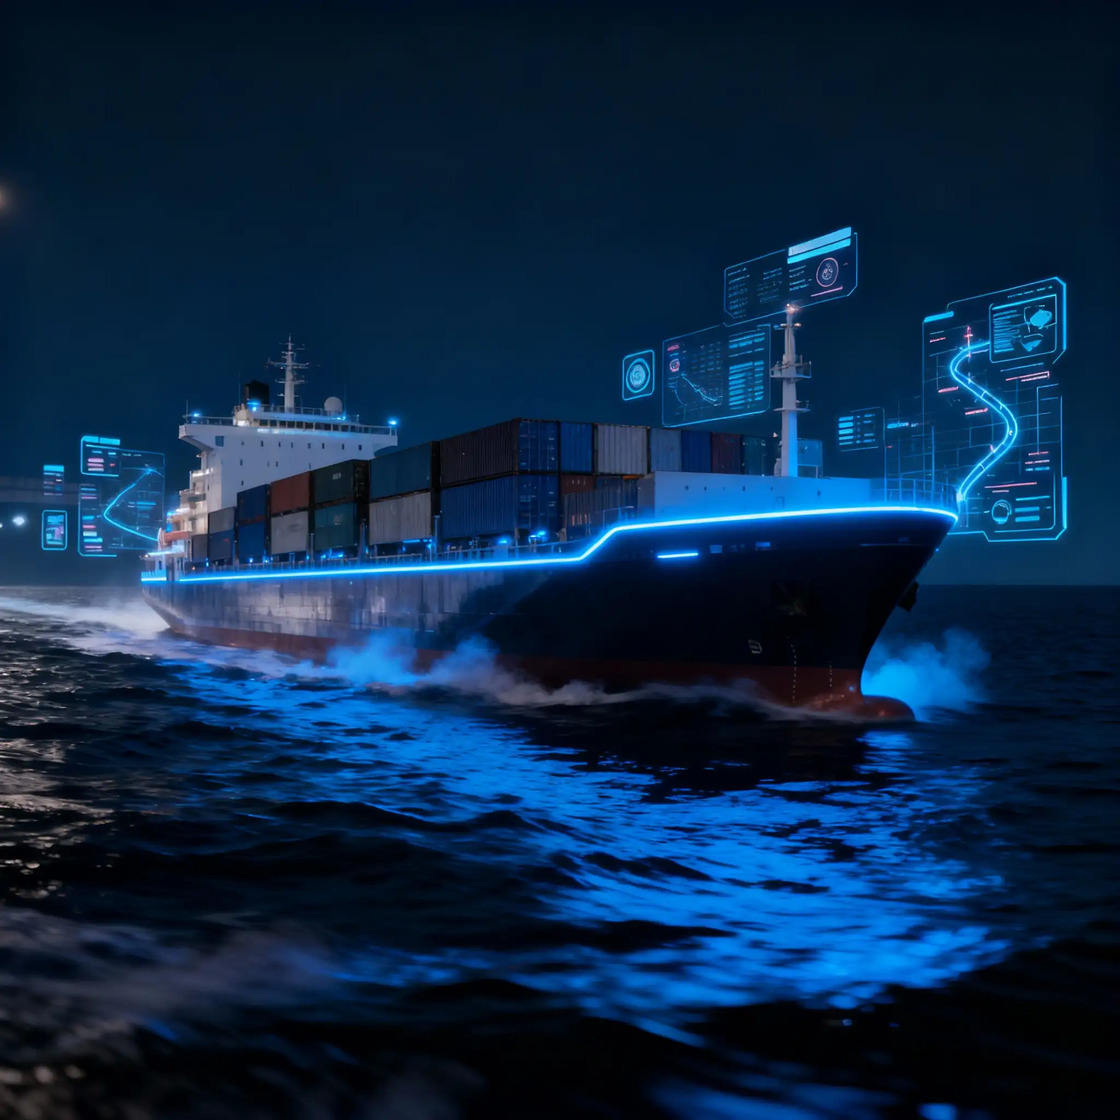
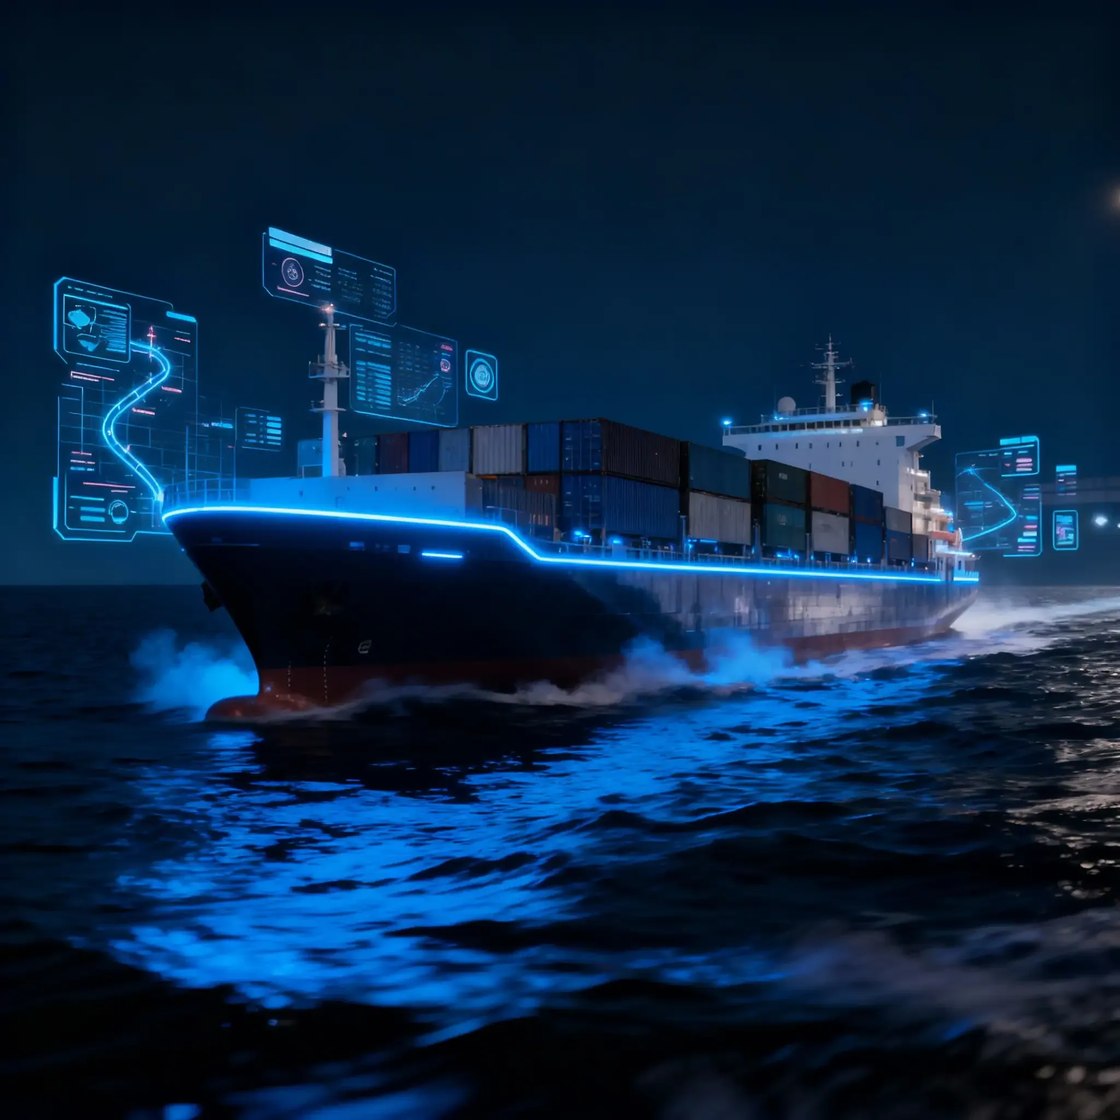
apply some appreance changes

diff --git a/frontend/src/components/TariffInquiry.js b/frontend/src/components/TariffInquiry.js
@@ -7,7 +7,7 @@ const TariffInquiry = () => {
 
   const [selectedOrigin, setSelectedOrigin] = useState("");
   const [selectedDestination, setSelectedDestination] = useState("");
-  const [weight, setWeight] = useState("");
+  const [weight, setWeight] = useState(2000);
   const [carrierType, setCarrierType] = useState("");
 
   const [result, setResult] = useState(null);
@@ -47,11 +47,9 @@ const TariffInquiry = () => {
     }
   }, [selectedOrigin]);
 
-  // تغییر مبدا: مقصد و نتیجه پاک شود تا ناسازگار نباشد
   const handleOriginChange = (e) => {
     setSelectedOrigin(e.target.value);
     setSelectedDestination("");
-    // setResult(null); // اگر نمیخواهی نتیجه قبلی حفظ شود، این خط را از حالت کامنت خارج کن
   };
 
   const handleSubmit = (e) => {
@@ -71,12 +69,10 @@ const TariffInquiry = () => {
       carrier_type: carrierType,
     };
 
-    // کلید یکتا برای جلوگیری از درخواست تکراری
     const key = `${currentQuery.origin}|${currentQuery.destination}|${currentQuery.weight} || ""}`;
 
-    // اگر دقیقاً همان ورودیهاست، کاری نکن
     if (lastQueryKey === key) {
-      return; // چون setLoading(true) هنوز نزدهایم، UI گیر نمیکند
+      return;
     }
 
     setLoading(true);
@@ -186,29 +182,39 @@ const TariffInquiry = () => {
             <div className="relative flex items-center">
               <input
                 type="number"
-                min="0"
+                min="2000"
                 step="100"
-                className="w-full px-4 py-2 border border-gray-300 rounded-xl focus:ring-2 focus:ring-[#3C9BD8] outline-none appearance-none [&::-webkit-inner-spin-button]:appearance-none 
-                 [&::-webkit-outer-spin-button]:appearance-none"
+                className="
+                    w-full px-4 py-2 border border-gray-300 rounded-xl
+                    focus:ring-2 focus:ring-[#3C9BD8] outline-none
+
+                    appearance-none
+                    [&::-webkit-inner-spin-button]:appearance-none
+                    [&::-webkit-outer-spin-button]:appearance-none
+
+                    [appearance:textfield]
+                    [-moz-appearance:textfield]
+                    "
                 placeholder="مثلاً 3000"
                 value={weight}
                 onChange={(e) => setWeight(e.target.value)}
                 required
               />
 
+
               {/* فلش بالا و پایین */}
               <div className="absolute left-3 top-0.5 flex flex-col h-full justify-center">
                 <button
                   type="button"
                   className="text-[#3C9BD8] hover:text-[#3185c0] leading-none"
-                  onClick={() => setWeight((prev) => (prev ? +prev + 100 : 100))}
+                  onClick={() => setWeight((prev) => (prev && +prev < 10000 ? +prev + 100 : 10000))}
                 >
                   ▲
                 </button>
                 <button
                   type="button"
                   className="text-[#3C9BD8] hover:text-[#3185c0] leading-none mt-0.5"
-                  onClick={() => setWeight((prev) => (prev && +prev >= 100 ? +prev - 100 : 0))}
+                  onClick={() => setWeight((prev) => (prev && +prev > 2000 ? +prev - 100 : 2000))}
                 >
                   ▼
                 </button>
@@ -230,7 +236,6 @@ const TariffInquiry = () => {
               <option value="">انتخاب نوع حامل</option>
               <option value="چادری">چادری</option>
               <option value="فلزی">فلزی</option>
-              <option value="تانکری">تانکری</option>
               <option value="یخچالی">یخچالی</option>
             </select>
 
@@ -258,8 +263,8 @@ const TariffInquiry = () => {
             type="submit"
             disabled={isSubmitDisabled}
             className={`w-full text-white font-semibold py-2 rounded-xl transition-all duration-200 ${isSubmitDisabled
-                ? "bg-gray-300 cursor-not-allowed"
-                : "bg-[#3C9BD8] hover:bg-[#3185c0]"
+              ? "bg-gray-300 cursor-not-allowed"
+              : "bg-[#3C9BD8] hover:bg-[#3185c0]"
               }`}
           >
             {loading ? "در حال محاسبه..." : "محاسبه کرایه"}

diff --git a/frontend/src/app/services/page.js b/frontend/src/app/services/page.js
@@ -18,12 +18,31 @@ export default function Home() {
       <TrainSection />
       <MarineSection />
       <h3 className="text-center text-2xl md:text-4xl font-bold mt-10">چرا تمکو؟</h3>
-      <p className="text-xl my-10 mx-10 md:mx-25 text-justify">در دنیایی که <strong>سرعت، دقت و اطلاعات</strong> نقش اصلی را در موفقیت لجستیک ایفا میکنند، انتخاب یک شریک قابلاعتماد میتواند آینده یک کسبوکار را تغییر دهد.</p>
-      <p className="text-xl my-10 mx-10 md:mx-25 text-justify">تمکو فقط یک شرکت حملونقل نیست؛ یک <strong>سامانه هوشمند، یکپارچه و دادهمحور</strong> است که تمامی مسیرهای <strong>زمینی، هوایی، ریلی و دریایی</strong> را در قالب یک شبکه منسجم به هم متصل میکند.</p>
-      <p className="text-xl my-10 mx-10 md:mx-25 text-justify">در تمکو باور داریم که <strong>اعتماد از شفافیت میآید</strong> و شفافیت با <strong>فناوری، گزارشدهی دقیق و تحلیل زنده دادهها</strong> ممکن میشود.
-        به همین دلیل هر مرحله از عملیات حملونقل از ثبت سفارش تا تحویل با: <strong>گزارش لحظهای، پشتیبانی انسانی اختصاصی، الگوریتمهای پیشبینی و تحلیل مسیر</strong>
-        طراحی شده تا مطمئن باشید محمولهتان در <strong>ایمنترین، سریعترین و بهینهترین مسیر</strong> در حال حرکت است.</p>
-      <p className="text-xl my-10 mx-10 md:mx-25 text-justify font-bold">تمکو، انتخاب کسبوکارهایی است که آینده را میبینند و تصمیم میگیرند امروز در مسیر آن حرکت کنند.</p>
+
+      <p className="text-xl my-10 mx-10 md:mx-25 text-justify font-bold">
+        در دنیایی که سرعت، دقت و اطلاعات نقش اصلی را در موفقیت لجستیک ایفا میکنند،
+        انتخاب یک شریک قابلاعتماد میتواند آینده یک کسبوکار را تغییر دهد.
+      </p>
+
+      <p className="text-xl my-10 mx-10 md:mx-25 text-justify font-bold">
+        تمکو فقط یک شرکت حملونقل نیست؛ یک سامانه هوشمند، یکپارچه و دادهمحور است
+        که تمامی مسیرهای زمینی، هوایی، ریلی و دریایی را در قالب یک شبکه منسجم به هم متصل میکند.
+      </p>
+
+      <p className="text-xl my-10 mx-10 md:mx-25 text-justify font-bold">
+        در تمکو باور داریم که اعتماد از شفافیت میآید و شفافیت با فناوری،
+        گزارشدهی دقیق و تحلیل زنده دادهها ممکن میشود.
+        به همین دلیل هر مرحله از عملیات حملونقل از ثبت سفارش تا تحویل با
+        گزارش لحظهای، پشتیبانی انسانی اختصاصی، الگوریتمهای پیشبینی و تحلیل مسیر
+        طراحی شده تا مطمئن باشید محمولهتان در ایمنترین، سریعترین و بهینهترین مسیر
+        در حال حرکت است.
+      </p>
+
+      <p className="text-xl my-10 mx-10 md:mx-25 text-justify font-bold">
+        تمکو، انتخاب کسبوکارهایی است که آینده را میبینند و تصمیم میگیرند امروز
+        در مسیر آن حرکت کنند.
+      </p>
+
 
     </>
 

diff --git a/frontend/src/app/contact/components/MainForm.js b/frontend/src/app/contact/components/MainForm.js
@@ -112,17 +112,25 @@ export default function MainForm() {
               </h3>
 
               {/* ☎ تلفن */}
-              <div className="flex items-center justify-start gap-4 text-[#036FD0] w-full">
+              <a
+                href="tel:02191095436"
+                className="flex items-center justify-start gap-4 text-[#036FD0] w-full hover:scale-[1.02] transition"
+              >
                 <svg className="w-15 h-15 shrink-0" viewBox="0 0 60 60" fill="none" xmlns="http://www.w3.org/2000/svg">
                   <rect width="60" height="60" rx="30" fill="#036FD0" />
                   <path d="M16.5 28.5H21C21.7956 28.5 22.5587 28.8161 23.1213 29.3787C23.6839 29.9413 24 30.7044 24 31.5V36C24 36.7956 23.6839 37.5587 23.1213 38.1213C22.5587 38.6839 21.7956 39 21 39H19.5C18.7044 39 17.9413 38.6839 17.3787 38.1213C16.8161 37.5587 16.5 36.7956 16.5 36V28.5ZM16.5 28.5C16.5 26.7272 16.8492 24.9717 17.5276 23.3338C18.2061 21.6959 19.2005 20.2076 20.4541 18.9541C21.7076 17.7005 23.1959 16.7061 24.8338 16.0276C26.4717 15.3492 28.2272 15 30 15C31.7728 15 33.5283 15.3492 35.1662 16.0276C36.8041 16.7061 38.2923 17.7005 39.5459 18.9541C40.7995 20.2076 41.7939 21.6959 42.4724 23.3338C43.1508 24.9717 43.5 26.7272 43.5 28.5M43.5 28.5V36C43.5 36.7956 43.1839 37.5587 42.6213 38.1213C42.0587 38.6839 41.2956 39 40.5 39H39C38.2044 39 37.4413 38.6839 36.8787 38.1213C36.3161 37.5587 36 36.7956 36 36V31.5C36 30.7044 36.3161 29.9413 36.8787 29.3787C37.4413 28.8161 38.2044 28.5 39 28.5H43.5Z" stroke="white" strokeWidth="2" strokeLinecap="round" strokeLinejoin="round" />
                   <path d="M43.5 36V39C43.5 40.5913 42.8679 42.1174 41.7426 43.2426C40.6174 44.3679 39.0913 45 37.5 45H30" stroke="white" strokeWidth="2" strokeLinecap="round" strokeLinejoin="round" />
                 </svg>
-                <span className="text-base md:text-lg font-medium">02191095436</span>
-              </div>
+                <span className="text-base md:text-lg font-medium" dir="ltr">
+                  021 9109 5436
+                </span>
+              </a>
 
               {/* ✉ ایمیل */}
-              <div className="flex items-center justify-start gap-4 text-[#036FD0] w-full">
+              <a
+                href="mailto:info@tmcopars.ir"
+                className="flex items-center justify-start gap-4 text-[#036FD0] w-full hover:scale-[1.02] transition"
+              >
                 <svg className="w-15 h-15 shrink-0" viewBox="0 0 60 60" fill="none" xmlns="http://www.w3.org/2000/svg">
                   <rect width="60" height="60" rx="30" fill="#036FD0" />
                   <path d="M45 22.5L31.5135 31.0905C31.0558 31.3563 30.536 31.4963 30.0068 31.4963C29.4775 31.4963 28.9577 31.3563 28.5 31.0905L15 22.5"
@@ -130,8 +138,10 @@ export default function MainForm() {
                   <path d="M42 18H18C16.3431 18 15 19.3431 15 21V39C15 40.6569 16.3431 42 18 42H42C43.6569 42 45 40.6569 45 39V21C45 19.3431 43.6569 18 42 18Z"
                     stroke="white" strokeWidth="2" strokeLinecap="round" strokeLinejoin="round" />
                 </svg>
-                <span className="text-base md:text-lg font-medium">info@tmcopars.ir</span>
-              </div>
+                <span className="text-base md:text-lg font-medium">
+                  info@tmcopars.ir
+                </span>
+              </a>
 
               {/* 📍 آدرس */}
               <div className="flex items-center justify-start gap-4 text-[#036FD0] w-full">

diff --git a/frontend/src/components/Layout/Footer.js b/frontend/src/components/Layout/Footer.js
@@ -289,7 +289,7 @@ export default function Footer() {
       {/* محتوای فوتر — بدون تغییر نسبت به نسخهی تو */}
       <div className="relative z-20 grid min-h-[1500px] grid-rows-[auto_auto_auto]">
         <section className="mx-auto flex w-full h-[735px] flex-col justify-end px-6 pb-[clamp(8rem,16vw,12rem)] pt-[clamp(6rem,12vw,8rem)] text-right text-slate-700 lg:px-12">
-          <h2 className="w-auto h-auto md:translate-y-[-90px] translate-y-[-180px] 2xl:translate-y-[-60px] text-center font-bold text-3xl">
+          <h2 className="w-auto h-auto md:translate-y-[-90px] translate-y-[-180px] 2xl:translate-y-[-60px] text-center font-bold text-md md:text-2xl">
             همین حالا حمل و نقل خود را آغاز کنید.
           </h2>
           <button
@@ -302,7 +302,7 @@ export default function Footer() {
         </section>
 
         <section className="relative footer-dark-section w-full h-[1200px] md:h-[767px] bg-[#0F2747] px-6 py-[clamp(8rem,16vw,12rem)] text-slate-100 lg:px-12">
-          <h2 className="w-auto h-auto md:translate-y-[-90px] mt-16 md:mt-0 text-center font-bold text-2xl">
+          <h2 className="w-auto h-auto md:translate-y-[-90px] mt-16 md:mt-0 text-center font-bold text-md md:text-2xl">
             اولین پلتفرم حمل و نقل ترکیبی در ایران
           </h2>
           <h2 className="w-auto h-auto mt-10 md:mt-0 font-bold text-3xl">تمکو</h2>
@@ -335,10 +335,22 @@ export default function Footer() {
             <div className="flex flex-col w-full md:w-1/4 h-3/6 mt-10 gap-8">
               <p className="font-bold">اطلاعات تماس</p>
               <div className="flex gap-4">
-                <LuHeadphones size={20} color={"#ADBDCC"} /> <span>02191095436</span>
+                <a
+                  href="tel:02191095436"
+                  className="flex gap-4 items-center hover:text-white transition"
+                >
+                  <LuHeadphones size={20} color="#ADBDCC" />
+                  <span>02191095436</span>
+                </a>
               </div>
               <div className="flex gap-4">
-                <MdOutlineMailOutline size={20} color={"#ADBDCC"} /> <span>info@tmcopars.ir</span>
+                <a
+                  href="mailto:info@tmcopars.ir"
+                  className="flex gap-4 items-center hover:text-white transition"
+                >
+                  <MdOutlineMailOutline size={20} color="#ADBDCC" />
+                  <span>info@tmcopars.ir</span>
+                </a>
               </div>
               <div className="flex-col">
                 <IoLocationOutline size={20} color={"#ADBDCC"} /> <span>تهران ، شهرک استقلال ، خیابان سپاه اسلام ۳۶ ،خیابان شهید عباس شفیعی هنجنی ، پلاک ۴ ، طبقه همکف</span>

diff --git a/frontend/src/app/contact/components/Map.js b/frontend/src/app/contact/components/Map.js
@@ -6,35 +6,33 @@ export default function MapLinksIcons({ lat = 35.7012772, lng = 51.2226153 }) {
   return (
     <div
       className="
-        grid 
-        grid-cols-1 
-        md:grid-cols-[1fr_2fr] 
-        gap-6 
-        items-center 
-        p-6 
-        rounded-lg 
-        bg-white/70 
-        backdrop-blur-sm 
+        grid
+        grid-cols-1
+        gap-6
+        p-6
+        rounded-lg
+        bg-white/70
+        backdrop-blur-sm
         mt-20
       "
     >
-      {/* ستون چپ (در موبایل بالا، در دسکتاپ چپ) */}
-      <div className="space-y-4 text-gray-700 text-center md:text-right">
+      {/* عنوان */}
+      <div className="text-gray-700 text-center">
         <h2 className="text-2xl font-bold">
           TMCO را روی نقشه به راحتی پیدا کنید.
         </h2>
       </div>
 
-      {/* ستون راست (در موبایل پایین، در دسکتاپ راست) */}
-      <div className="rounded-md overflow-hidden shadow-md">
+      {/* نقشه */}
+      <div className="rounded-lg overflow-hidden shadow-md">
         <iframe
           src={mapSrc}
-          className="w-full h-[350p] md:h-[400px]"
+          className="w-full md:w-[90%] mx-auto h-[350px] md:h-[400px]"
           loading="lazy"
           style={{ border: 0 }}
           allowFullScreen
           referrerPolicy="no-referrer-when-downgrade"
-        ></iframe>
+        />
       </div>
     </div>
   );

diff --git a/frontend/src/app/page.js b/frontend/src/app/page.js
@@ -49,7 +49,7 @@ export default function Home() {
         {/* 🧩 معرفی پلتفرم */}
         <MotionEffect effect="fadeUp">
           <div>
-            <h3 className="font-bold mb-5 text-2xl text-justify">
+            <h3 className="font-bold mb-5 text-md md:text-2xl text-justify">
               یک بستر یکپارچه برای مدیریت حمل و نقل سازمانی
             </h3>
             <p className="text-justify [word-spacing:2px]">
@@ -84,7 +84,7 @@ export default function Home() {
           </MotionEffect>
 
           <MotionEffect effect="slideUp">
-            <h2 className="font-bold text-2xl text-[#121212] my-5">
+            <h2 className="font-bold text-md md:text-2xl text-[#121212] my-5">
               ابزاری برای مدیریت حرفهای زنجیره تأمین
             </h2>
             <p className="w-4/5 text-justify">
@@ -134,7 +134,7 @@ export default function Home() {
       {/* 🚛 بخش استعلام تعرفه */}
       <MotionEffect effect="slideUp" className="px-10 flex flex-col md:flex-row mt-20 mb-40 w-full h-[700px]">
         <div className="md:w-2/5 w-full">
-          <h2 className="font-bold mt-30 text-2xl text-[#121212] my-5">
+          <h2 className="font-bold mt-30 text-md md:text-2xl text-[#121212] my-5">
             هزینه حمل بار من چقدر میشود؟
           </h2>
           <p className="text-justify">

diff --git a/frontend/src/components/Home/DriverDetail.js b/frontend/src/components/Home/DriverDetail.js
@@ -4,7 +4,7 @@ import MotionEffect from "@/animations/MotionEffect";
 export default function DriverDetail() {
     const [downloadUrl, setDownloadUrl] = useState(null);
     const features = [
-        { title: "مقایسه و انتخاب هوشمند ارائهدهندگان حملونقل" },
+        { title: "انتخاب هوشمند ارائهدهندگان حملونقل" },
         { title: "مدیریت یکپارچه سفارشها" },
         { title: "مدیریت کامل فرآیند حملونقل" },
         { title: "پیگیری وضعیت محموله به صورت لحظهای" },
@@ -37,7 +37,7 @@ export default function DriverDetail() {
             </MotionEffect>
 
             <MotionEffect effect='slideUp'>
-                <h2 className="font-bold text-2xl text-[#121212] my-5">انتخاب بهترین مسیر، تنها با یک کلیک</h2>
+                <h2 className="font-bold text-md md:text-2xl text-[#121212] my-5">انتخاب بهترین مسیر، تنها با یک کلیک</h2>
                 <p className="w-4/5 text-justify">اپلیکیشن راننده تمکو، تمام نیازهای حملونقل را در یک بستر هوشمند و ساده در اختیار رانندگان قرار میدهد.</p>
             </MotionEffect>
             <MotionEffect effect='fadeIn'>

diff --git a/frontend/src/app/services/components/TrainSection.js b/frontend/src/app/services/components/TrainSection.js
@@ -52,8 +52,8 @@ export default function TrainSection() {
         className="md:w-2/3  w-full pt-10 md:pt-0 flex flex-col justify-center items-start md:px-16 px-8 bg-white"
       >
         <h3 className="text-[#3C9BD8] mb-5 font-bold text-xl md:text-2xl text-center">خدمات ریلی</h3>
-        <h2 className="text-3xl md:text-5xl font-bold mb-6 text-[#0A2540]">
-          مطمئن، اقتصادی و کاملاً قابلاعتماد
+        <h2 className="text-2xl md:text-3xl font-bold mb-6 text-[#0A2540]">
+          مطمئن، اقتصادی و قابلاعتماد
         </h2>
         <p className="text-[#0A2540] text-xl leading-relaxed max-w-2xl text-justify">
           در دنیای امروز، سرعت تنها یک مزیت نیست؛ <strong>دقت، ثبات و برنامهریزی هوشمند</strong> نقش مهمتری در موفقیت زنجیره تأمین بازی میکنند.

diff --git a/frontend/src/app/services/components/TruckSection.js b/frontend/src/app/services/components/TruckSection.js
@@ -52,7 +52,7 @@ export default function TruckSection() {
         className="md:w-2/3 w-full pt-10 md:pt-0 flex flex-col justify-center items-start md:px-16 px-8 bg-white"
       >
         <h3 className="text-[#3C9BD8] mb-5 font-bold text-xl md:text-2xl text-center">خدمات زمینی</h3>
-        <h2 className="text-3xl md:text-5xl font-bold mb-6 text-[#0A2540]">
+        <h2 className="text-2xl md:text-3xl font-bold mb-6 text-[#0A2540]">
           ترکیب امنیت، سرعت و هوشمندی
         </h2>
         <p className="text-[#0A2540] text-xl leading-relaxed max-w-2xl text-justify">

diff --git a/frontend/src/app/about/components/AboutTitle.js b/frontend/src/app/about/components/AboutTitle.js
@@ -30,9 +30,9 @@ export default function AboutTitle() {
 
           <h1
             key="main-title"
-            className="font-bold text-3xl leading-tight text-justify"
+            className="font-bold text-md md:text-3xl leading-tight text-justify"
           >
-            تمکو – اولین پلتفرم حملونقل ترکیبی در ایران
+            تمکو اولین پلتفرم حملونقل ترکیبی در ایران
           </h1>,
 
           <p key="paragraph" className="w-full sm:w-4/5 text-base md:text-lg mx-auto leading-relaxed text-gray-700 text-justify">

diff --git a/frontend/src/app/services/components/PlaneSection.js b/frontend/src/app/services/components/PlaneSection.js
@@ -52,7 +52,7 @@ export default function PlaneSection() {
         className="pt-10 md:pt-0 w-fit flex flex-col justify-center items-start md:px-16 px-8 bg-white"
       >
         <h3 className="text-[#3C9BD8] mb-5 font-bold text-xl md:text-2xl text-center">خدمات هوایی</h3>
-        <h2 className="text-3xl md:text-5xl font-bold mb-6 text-[#0A2540]">
+        <h2 className="text-2xl md:text-3xl font-bold mb-6 text-[#0A2540]">
           سریع، ایمن و دقیقتر از همیشه
         </h2>
         <p className="text-[#0A2540] text-xl leading-relaxed max-w-2xl text-justify">

diff --git a/frontend/src/app/services/components/MarineSection.js b/frontend/src/app/services/components/MarineSection.js
@@ -52,7 +52,7 @@ export default function MarineSection() {
         className="pt-10 md:pt-0 w-fit flex flex-col justify-center items-start md:px-16 px-8 bg-white"
       >
         <h3 className="text-[#3C9BD8] mb-5 font-bold text-xl md:text-2xl text-center">خدمات دریایی</h3>
-        <h2 className="text-3xl md:text-5xl font-bold mb-6 text-[#0A2540]">
+        <h2 className="text-2xl md:text-3xl font-bold mb-6 text-[#0A2540]">
           گسترده، پایدار و اقتصادی
         </h2>
         <p className="text-[#0A2540] text-xl leading-relaxed max-w-2xl text-justify">
